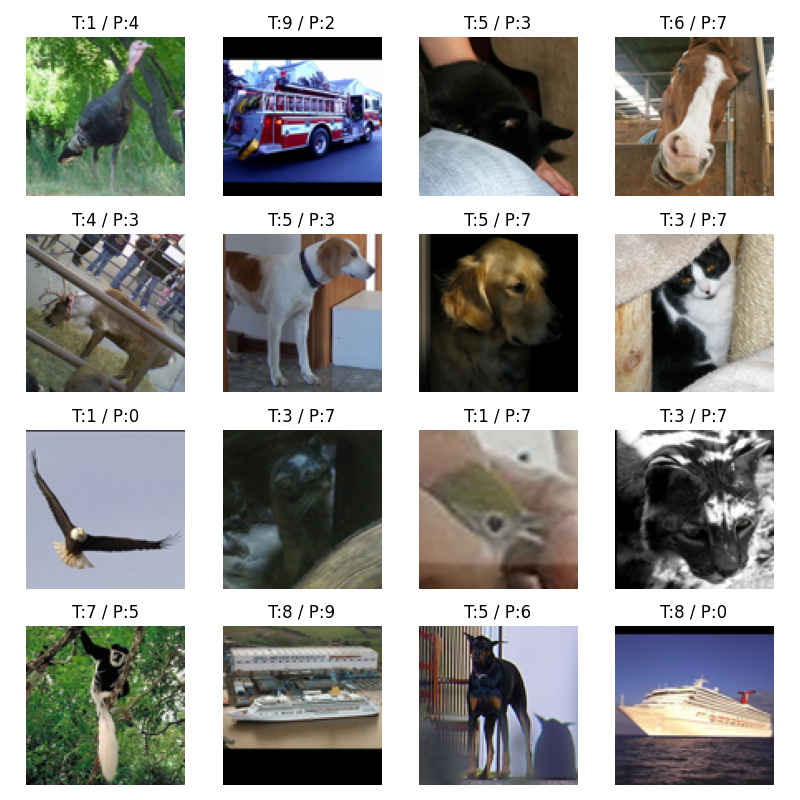
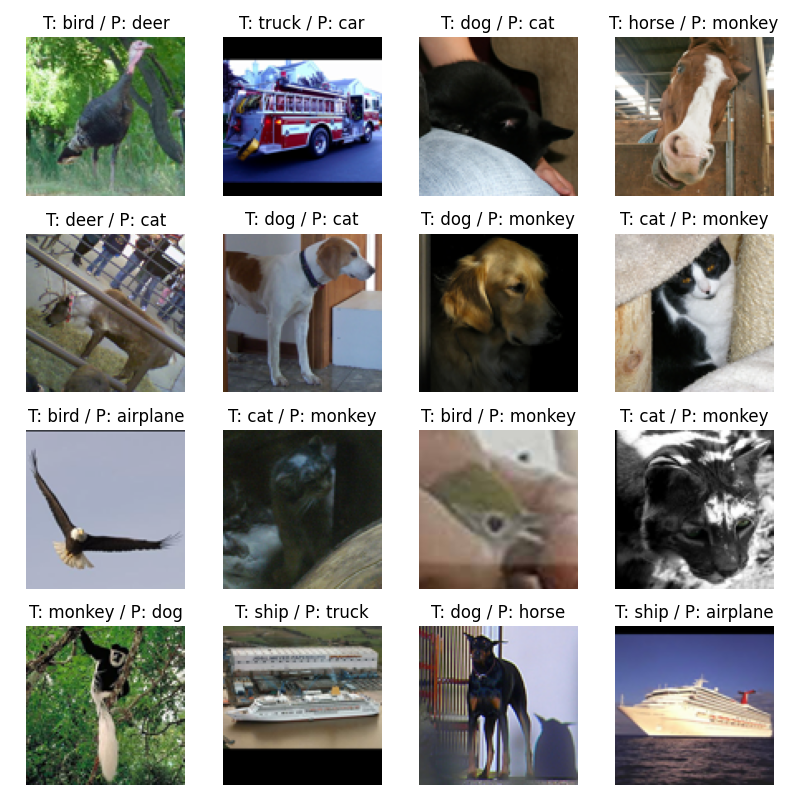
progress report

diff --git a/umap_mnist.py b/umap_mnist.py
@@ -1,0 +1,58 @@
+import umap
+from sklearn.datasets import fetch_openml
+import numpy as np
+import matplotlib.pyplot as plt
+import matplotlib.cm as cm
+from torchvision.datasets import CIFAR10
+
+# MNIST を NumPy 配列で取得
+mnist = fetch_openml(
+    'mnist_784',
+    version=1,
+    as_frame=False,
+    parser='liac-arff'
+)
+X, y = mnist.data.astype(np.float32) / 255.0, mnist.target.astype(int)
+
+# サンプル絞り込み
+rng = np.random.RandomState(42)
+idx = rng.choice(len(X), 6000, replace=False)
+X_sub, y_sub = X[idx], y[idx]
+
+# trainset = CIFAR10(root='./data', train=True, download=True)
+# # NumPy 配列に変換して (N, 32*32*3) のベクトルにリシェイプ＋0–1 正規化
+# X = trainset.data.astype(np.float32).reshape(len(trainset), -1) / 255.0
+# y = np.array(trainset.targets)   # (N,) のラベル配列
+
+# サンプル数を絞る（例：2,000件）
+rng = np.random.RandomState(42)
+idx = rng.choice(len(X), 7000, replace=False)
+X_sub, y_sub = X[idx], y[idx]
+
+# UMAP 次元削減（警告は無視してOKです）
+reducer = umap.UMAP(n_neighbors=15, min_dist=0.1, random_state=42)
+embedding = reducer.fit_transform(X_sub)
+
+# プロット
+plt.figure(figsize=(8, 8))
+cmap = cm.get_cmap('tab10', 10)
+scatter = plt.scatter(
+    embedding[:, 0],
+    embedding[:, 1],
+    c=y_sub,
+    cmap=cmap,
+    s=5,
+    alpha=0.8
+)
+
+# 凡例：handles だけ取得して、ラベルは自分で用意
+handles, _ = scatter.legend_elements(prop="colors", alpha=0.8, num=10)
+labels = [str(i) for i in range(10)]
+plt.legend(handles, labels, title="Digit", loc="best", fontsize="small")
+
+plt.gca().set_aspect('equal', 'datalim')
+plt.title('UMAP projection of MNIST')
+plt.xlabel('UMAP 1')
+plt.ylabel('UMAP 2')
+plt.savefig("UMAP_MNIST.png")
+plt.show()

diff --git a/test.py b/test.py
@@ -51,6 +51,19 @@ def test_and_collect_errors(model, loader, criterion, device):
     accuracy = total_correct / total_samples
     return avg_loss, accuracy, errors
 
+class_names = [
+    "airplane",
+    "bird",
+    "car",
+    "cat",
+    "deer",
+    "dog",
+    "horse",
+    "monkey",
+    "ship",
+    "truck",
+]
+
 # --- 準備 ---
 transform = transforms.Compose([
     transforms.ToTensor(), 
@@ -74,7 +87,10 @@ test_loss, test_acc, misclassified = test_and_collect_errors(model, test_loader,
 print(f"Loss={test_loss:.4f}  Acc={test_acc:.4f}  Errors={len(misclassified)} samples")
 # 最初の数件を表示
 for e in misclassified[:10]:
-    print(f"  idx={e['index']}  true={e['true_label']}  pred={e['pred_label']}")
+    # print(f"  idx={e['index']}  true={e['true_label']}  pred={e['pred_label']}")
+    true_name = class_names[e['true_label']]
+    pred_name = class_names[e['pred_label']]
+    print(f"idx={e['index']}  true={true_name}  pred={pred_name}")
 
 
 # 誤分類サンプルの先頭16件
@@ -86,7 +102,12 @@ for ax, s in zip(axes.flatten(), samples):
     img = img.numpy().transpose(1,2,0)
     img = np.clip(img * np.array([0.229,0.224,0.225]) + np.array([0.485,0.456,0.406]), 0, 1)
     ax.imshow(img)
-    ax.set_title(f"T:{s['true_label']} / P:{s['pred_label']}")
+
+    # ← ここでその都度ラベル名を取り出す
+    true_name = class_names[s["true_label"]]
+    pred_name = class_names[s["pred_label"]]
+    ax.set_title(f"T: {true_name} / P: {pred_name}")
+
     ax.axis("off")
 plt.tight_layout()
 plt.savefig("error_samples_STL10.png")

diff --git a/lambda_plot.py b/lambda_plot.py
@@ -34,7 +34,7 @@ def find_first(dataset, target_label):
     raise ValueError(f"No sample with label={target_label}")
 
 airplane_img  = find_first(test_stl, class_names.index("bird")).to(device)   # (C,H,W)
-monkey_img = find_first(test_stl, class_names.index("monkey")).to(device)  # (C,H,W)
+monkey_img    = find_first(test_stl, class_names.index("horse")).to(device)  # (C,H,W)
 
 # — 4) 学習済み STL-10 モデルをロード —
 #    すでに訓練した Wide-ResNet / ResNet18 などを model に代入済みとします
@@ -76,10 +76,11 @@ plt.plot(lams, p_monkey, label='monkey')
 plt.plot(lams, p_ship, label='ship')
 plt.plot(lams, p_truck, label='truck')
 
-plt.xlabel("λ (monkey → airplane)")
+plt.xlabel("λ")
 plt.ylabel("Prediction probability")
-plt.title("STL10 airplane-monkey mixup (ResNet)")
+plt.title("STL10 horse-bird mixup")
 plt.legend()
 plt.grid(True)
 plt.tight_layout()
+plt.savefig("lambda.png")
 plt.show()

diff --git a/umap_visualize.py b/umap_visualize.py
@@ -58,7 +58,7 @@
 # plt.title('UMAP projection of MNIST (2,000 samples)')
 # plt.xlabel('UMAP 1')
 # plt.ylabel('UMAP 2')
-# plt.savefig("UMAP_STL10.png")
+# plt.savefig("UMAP_MNIST.png")
 # plt.show()
 
 
